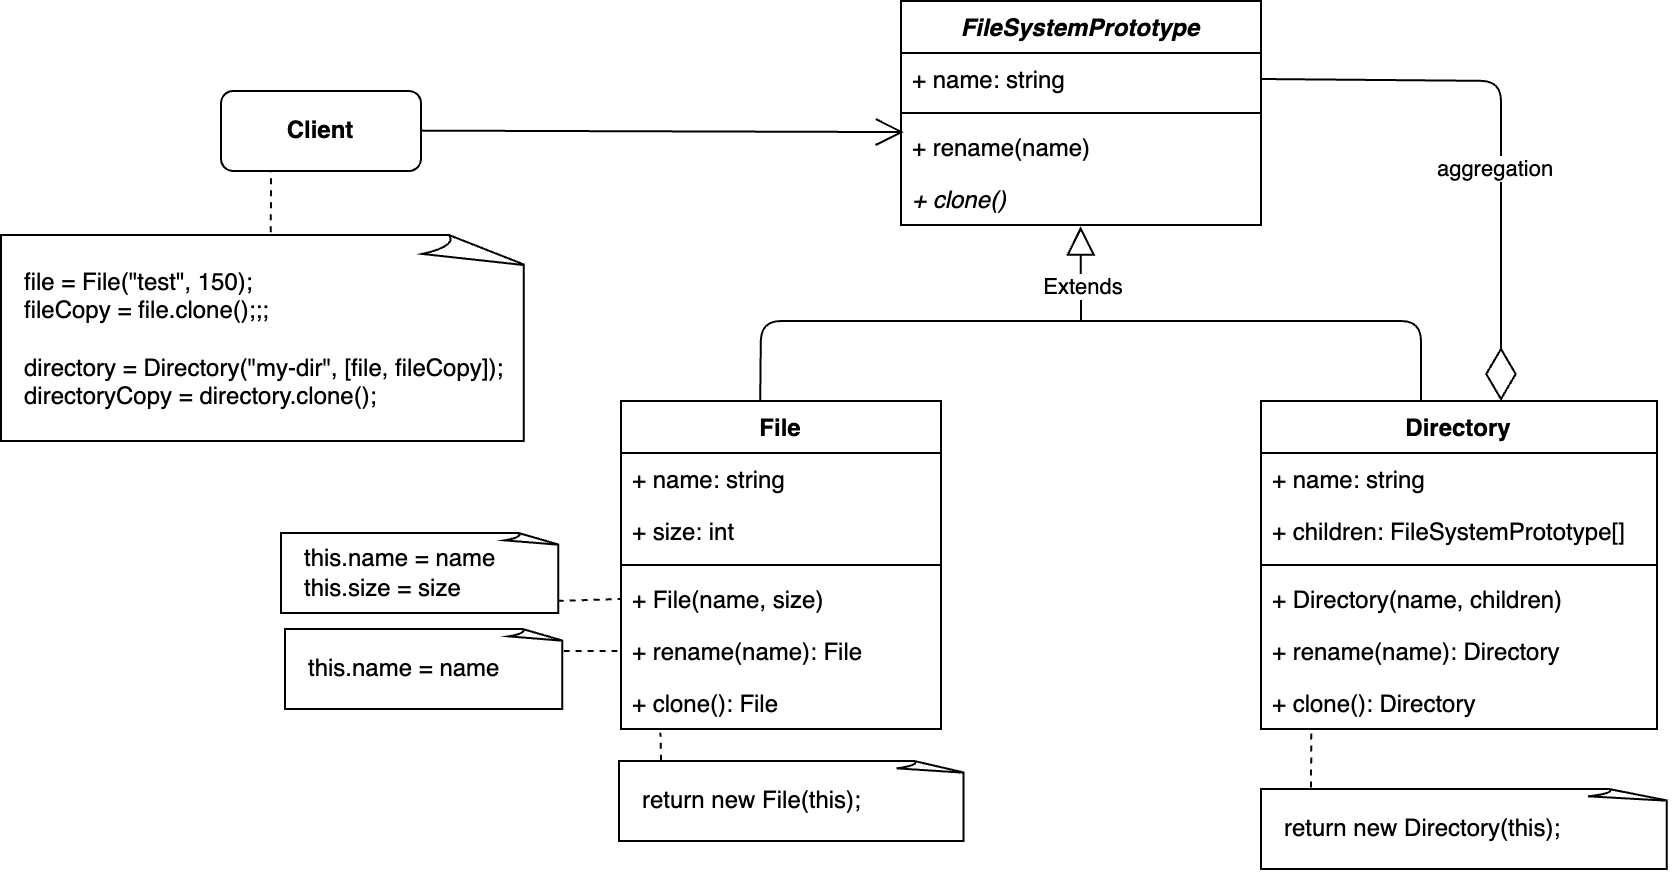
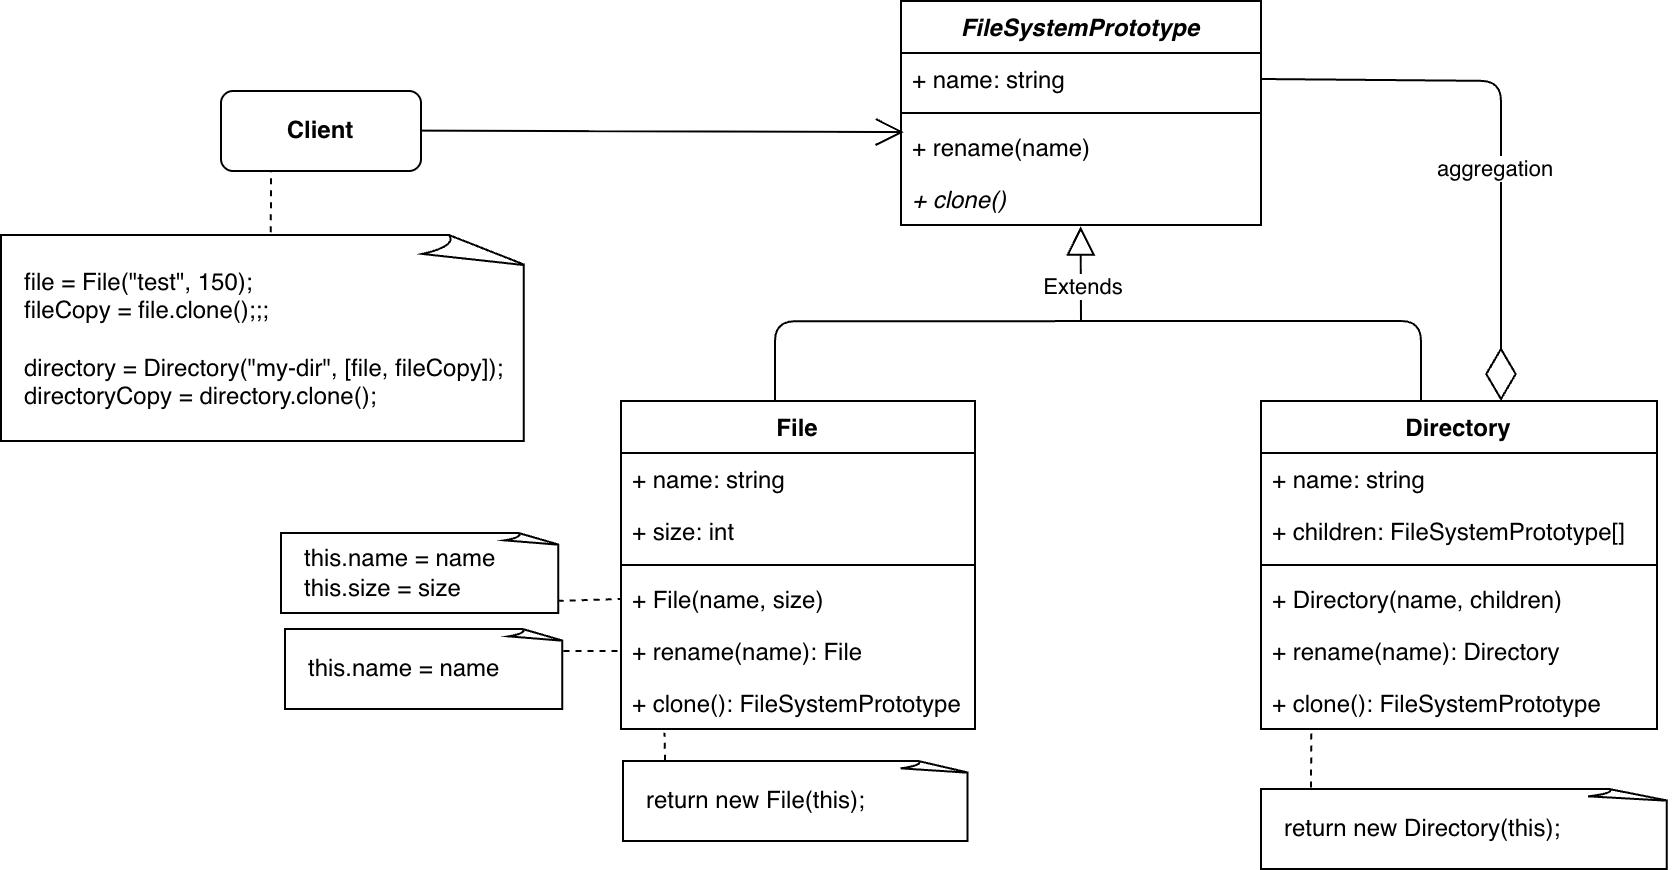
fix(prototype): set clone return type to base class

diff --git a/patterns/creational/prototype/main.dart b/patterns/creational/prototype/main.dart
@@ -17,7 +17,7 @@ class File extends FileSystemProtoype {
   File(String name, this.size) : super(name);
 
   @override
-  File clone() {
+  FileSystemProtoype clone() {
     return File(name, size);
   }
 
@@ -37,7 +37,7 @@ class Directory extends FileSystemProtoype {
   }
 
   @override
-  Directory clone() {
+  FileSystemProtoype clone() {
     return Directory(name, children.map((child) => child.clone()).toList());
   }
 
